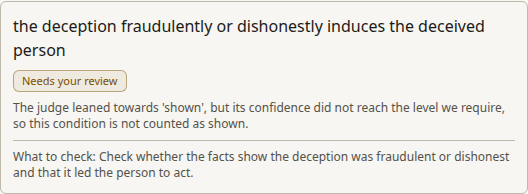
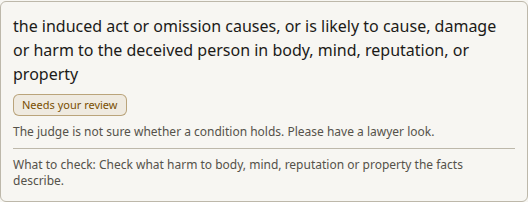
Guide frame 04 retaken from a live public-order run

diff --git a/frontend/e2e/guide-shots.spec.ts b/frontend/e2e/guide-shots.spec.ts
@@ -109,4 +109,7 @@ test("02/03 the checklist and a row from a real example run (live engine)", asyn
   await hideFloaters(page);
   await checklist.screenshot({ path: "public/guide/02-ingredient-checklist.png" });
   await page.getByTestId("ingredient-row").first().screenshot({ path: "public/guide/03-cited-fact.png" });
+  // 04 from the same live run, when a row carries the Needs your review mark (skipped silently otherwise; keep the existing frame then).
+  const review = page.getByTestId("ingredient-row").filter({ hasText: "Needs your review" }).first();
+  if (await review.count()) await review.screenshot({ path: "public/guide/04-needs-your-review.png" });
 });
